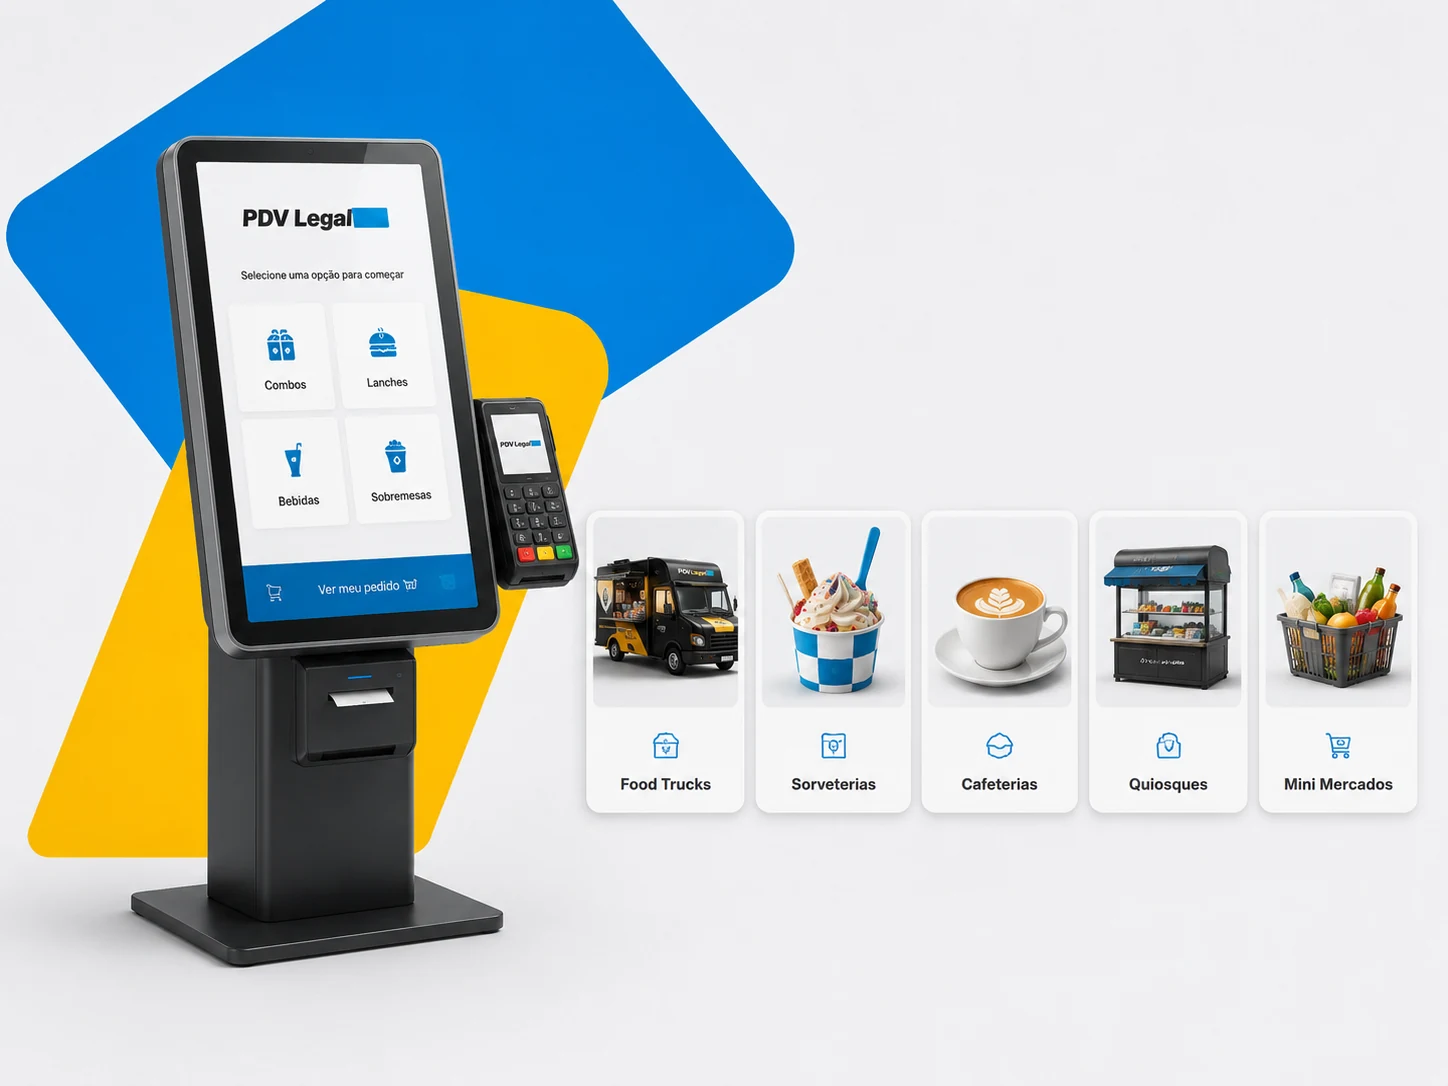
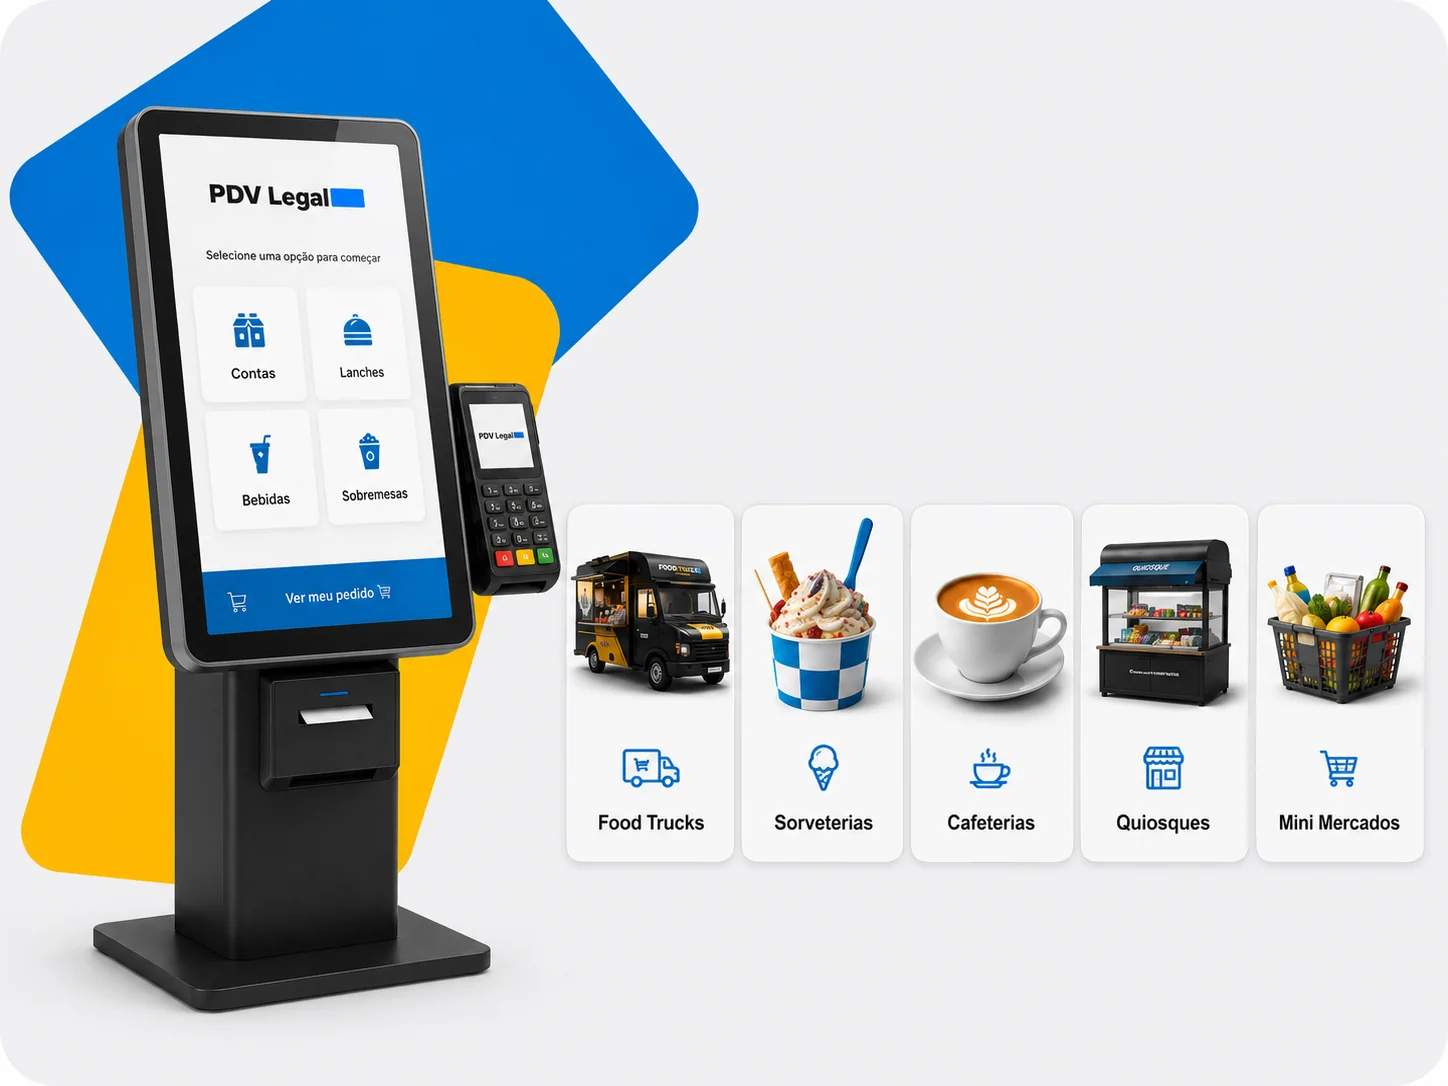
Add files via upload

Changed region(s): [[0.0, 0.0, 0.9945, 0.942]]

diff --git a/index.html b/index.html
@@ -37,9 +37,15 @@
       </nav>
 
       <div class="quick-links" aria-label="Links rápidos">
-        <a href="#contato">Portal</a>
-        <a href="#contato">Boleto 2ª via</a>
-        <a class="icon-link" href="#contato" aria-label="Instagram">◎</a>
+        <a href="https://www.pdvlegal.com.br/loginpdvlegal.aspx" target="_blank" rel="noopener">Portal</a>
+        <a href="https://www.asaas.com/segunda-via" target="_blank" rel="noopener">Boleto 2ª via</a>
+        <a class="icon-link" href="https://www.instagram.com/pdvlegal_pontadapraia_santos/" target="_blank" rel="noopener" aria-label="Instagram">
+          <svg viewBox="0 0 24 24" width="18" height="18" aria-hidden="true" focusable="false">
+            <rect x="3" y="3" width="18" height="18" rx="5" ry="5" fill="none" stroke="currentColor" stroke-width="2"></rect>
+            <circle cx="12" cy="12" r="4" fill="none" stroke="currentColor" stroke-width="2"></circle>
+            <circle cx="17.5" cy="6.5" r="1.2" fill="currentColor"></circle>
+          </svg>
+        </a>
       </div>
     </div>
   </header>
@@ -213,7 +219,7 @@
           <span class="brand-box"><strong>PDV</strong><strong>Já</strong></span>
           <small>Revenda PDV Legal</small>
         </a>
-        <p>PDV Já — seu sistema de vendas sem complicação.</p>
+        <p>Pdv Legal</p>
       </div>
       <div>
         <h3>Site</h3>
@@ -231,7 +237,10 @@
   </footer>
 
   <a class="whatsapp-float" href="https://wa.me/[phone redacted]?text=Ol%C3%A1%2C%20quero%20conhecer%20o%20Pdv%20Legal" target="_blank" rel="noopener" aria-label="Chamar no WhatsApp">
-    ☎
+    <svg viewBox="0 0 32 32" width="34" height="34" aria-hidden="true" focusable="false">
+      <path fill="currentColor" d="M19.11 17.28c-.27-.14-1.58-.78-1.82-.87-.24-.09-.42-.14-.6.14-.18.27-.69.87-.85 1.05-.15.18-.31.21-.58.07-.27-.14-1.12-.41-2.14-1.31-.79-.7-1.32-1.56-1.47-1.82-.15-.27-.02-.41.11-.54.12-.12.27-.31.41-.47.14-.16.18-.27.27-.45.09-.18.04-.34-.02-.47-.07-.14-.6-1.45-.82-1.98-.22-.53-.44-.46-.6-.47h-.51c-.18 0-.47.07-.72.34-.24.27-.94.92-.94 2.24s.96 2.59 1.09 2.77c.14.18 1.9 2.9 4.6 4.07.64.28 1.15.45 1.55.58.65.21 1.24.18 1.7.11.52-.08 1.58-.65 1.8-1.27.22-.63.22-1.16.15-1.27-.07-.12-.24-.18-.51-.31Z"></path>
+      <path fill="currentColor" d="M16.02 4.2c-6.51 0-11.79 5.28-11.79 11.79 0 2.08.54 4.11 1.58 5.89L4 28l6.32-1.66a11.73 11.73 0 0 0 5.7 1.45h.01c6.5 0 11.78-5.29 11.78-11.79 0-3.15-1.23-6.11-3.46-8.33A11.69 11.69 0 0 0 16.02 4.2Zm0 21.6h-.01a9.78 9.78 0 0 1-4.98-1.36l-.36-.21-3.75.99 1-3.66-.24-.38a9.81 9.81 0 1 1 8.34 4.62Z"></path>
+    </svg>
   </a>
 
   <script src="main.js"></script>

diff --git a/README.md b/README.md
@@ -1,6 +1,6 @@
 # PDV Já - Site institucional
 
-Versão: v04
+Versão: v09
 Data: 22/06/2026
 
 ## Identidade
@@ -12,7 +12,7 @@ Data: 22/06/2026
 - Botão principal: Quero Conhecer o Pdv Legal
 - WhatsApp: [phone redacted]
 
-## O que mudou na v04
+## O que mudou na v05
 
 - Aplicadas imagens profissionais geradas para o site.
 - Hero visual mais forte e alinhado ao universo PDV Legal.
@@ -34,6 +34,19 @@ Data: 22/06/2026
 
 ## Pendências opcionais
 
-1. Inserir links reais de Portal, 2ª via de boleto e Instagram.
+1. Inserir link real do Instagram.
 2. Publicar em hospedagem ou GitHub Pages/Netlify.
 3. Ajustar textos finais após revisão comercial.
+
+
+## Atualizações v05
+- Link do menu “Portal” atualizado para https://www.pdvlegal.com.br/loginpdvlegal.aspx.
+- Imagens principais atualizadas com versões mais legíveis/maiores.
+
+- v06: Link do menu “Boleto 2ª via” atualizado para https://www.asaas.com/segunda-via.
+
+Atualização: ícone do Instagram no topo com link para https://www.instagram.com/pdvlegal_pontadapraia_santos/
+
+Atualização: botão flutuante ajustado para ícone do WhatsApp.
+
+Atualização: texto do rodapé alterado para “Pdv Legal”.